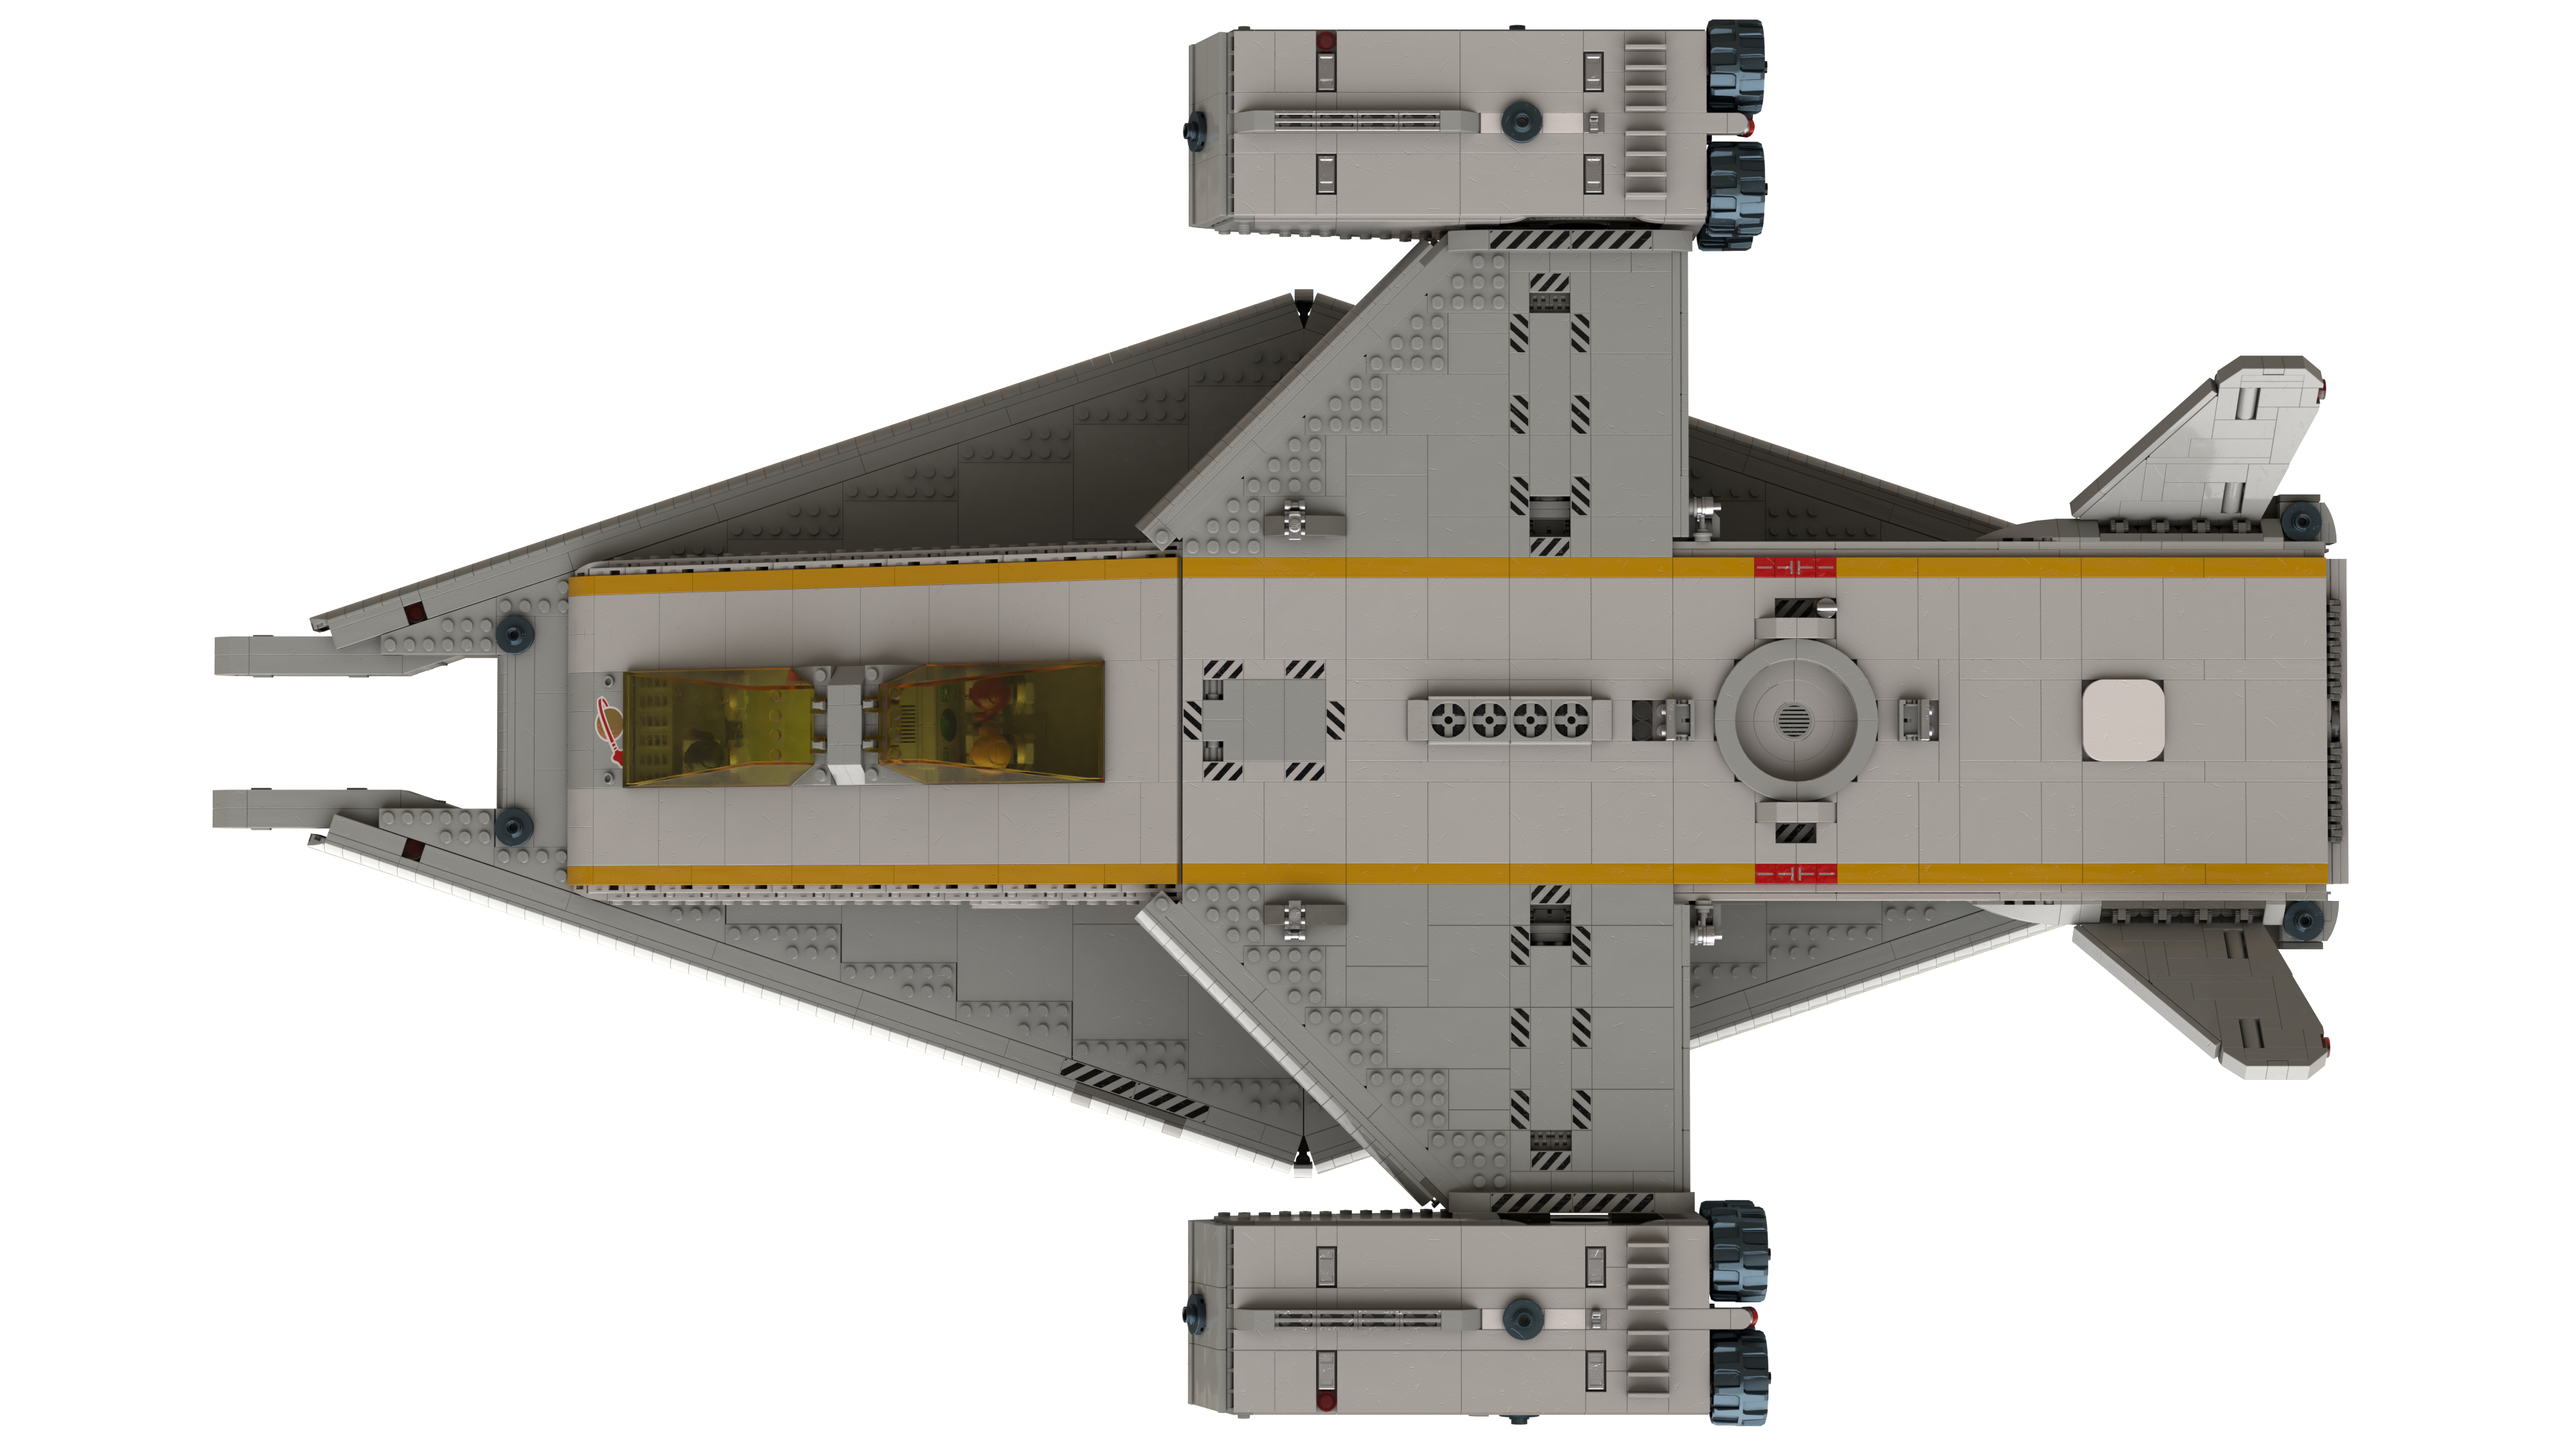
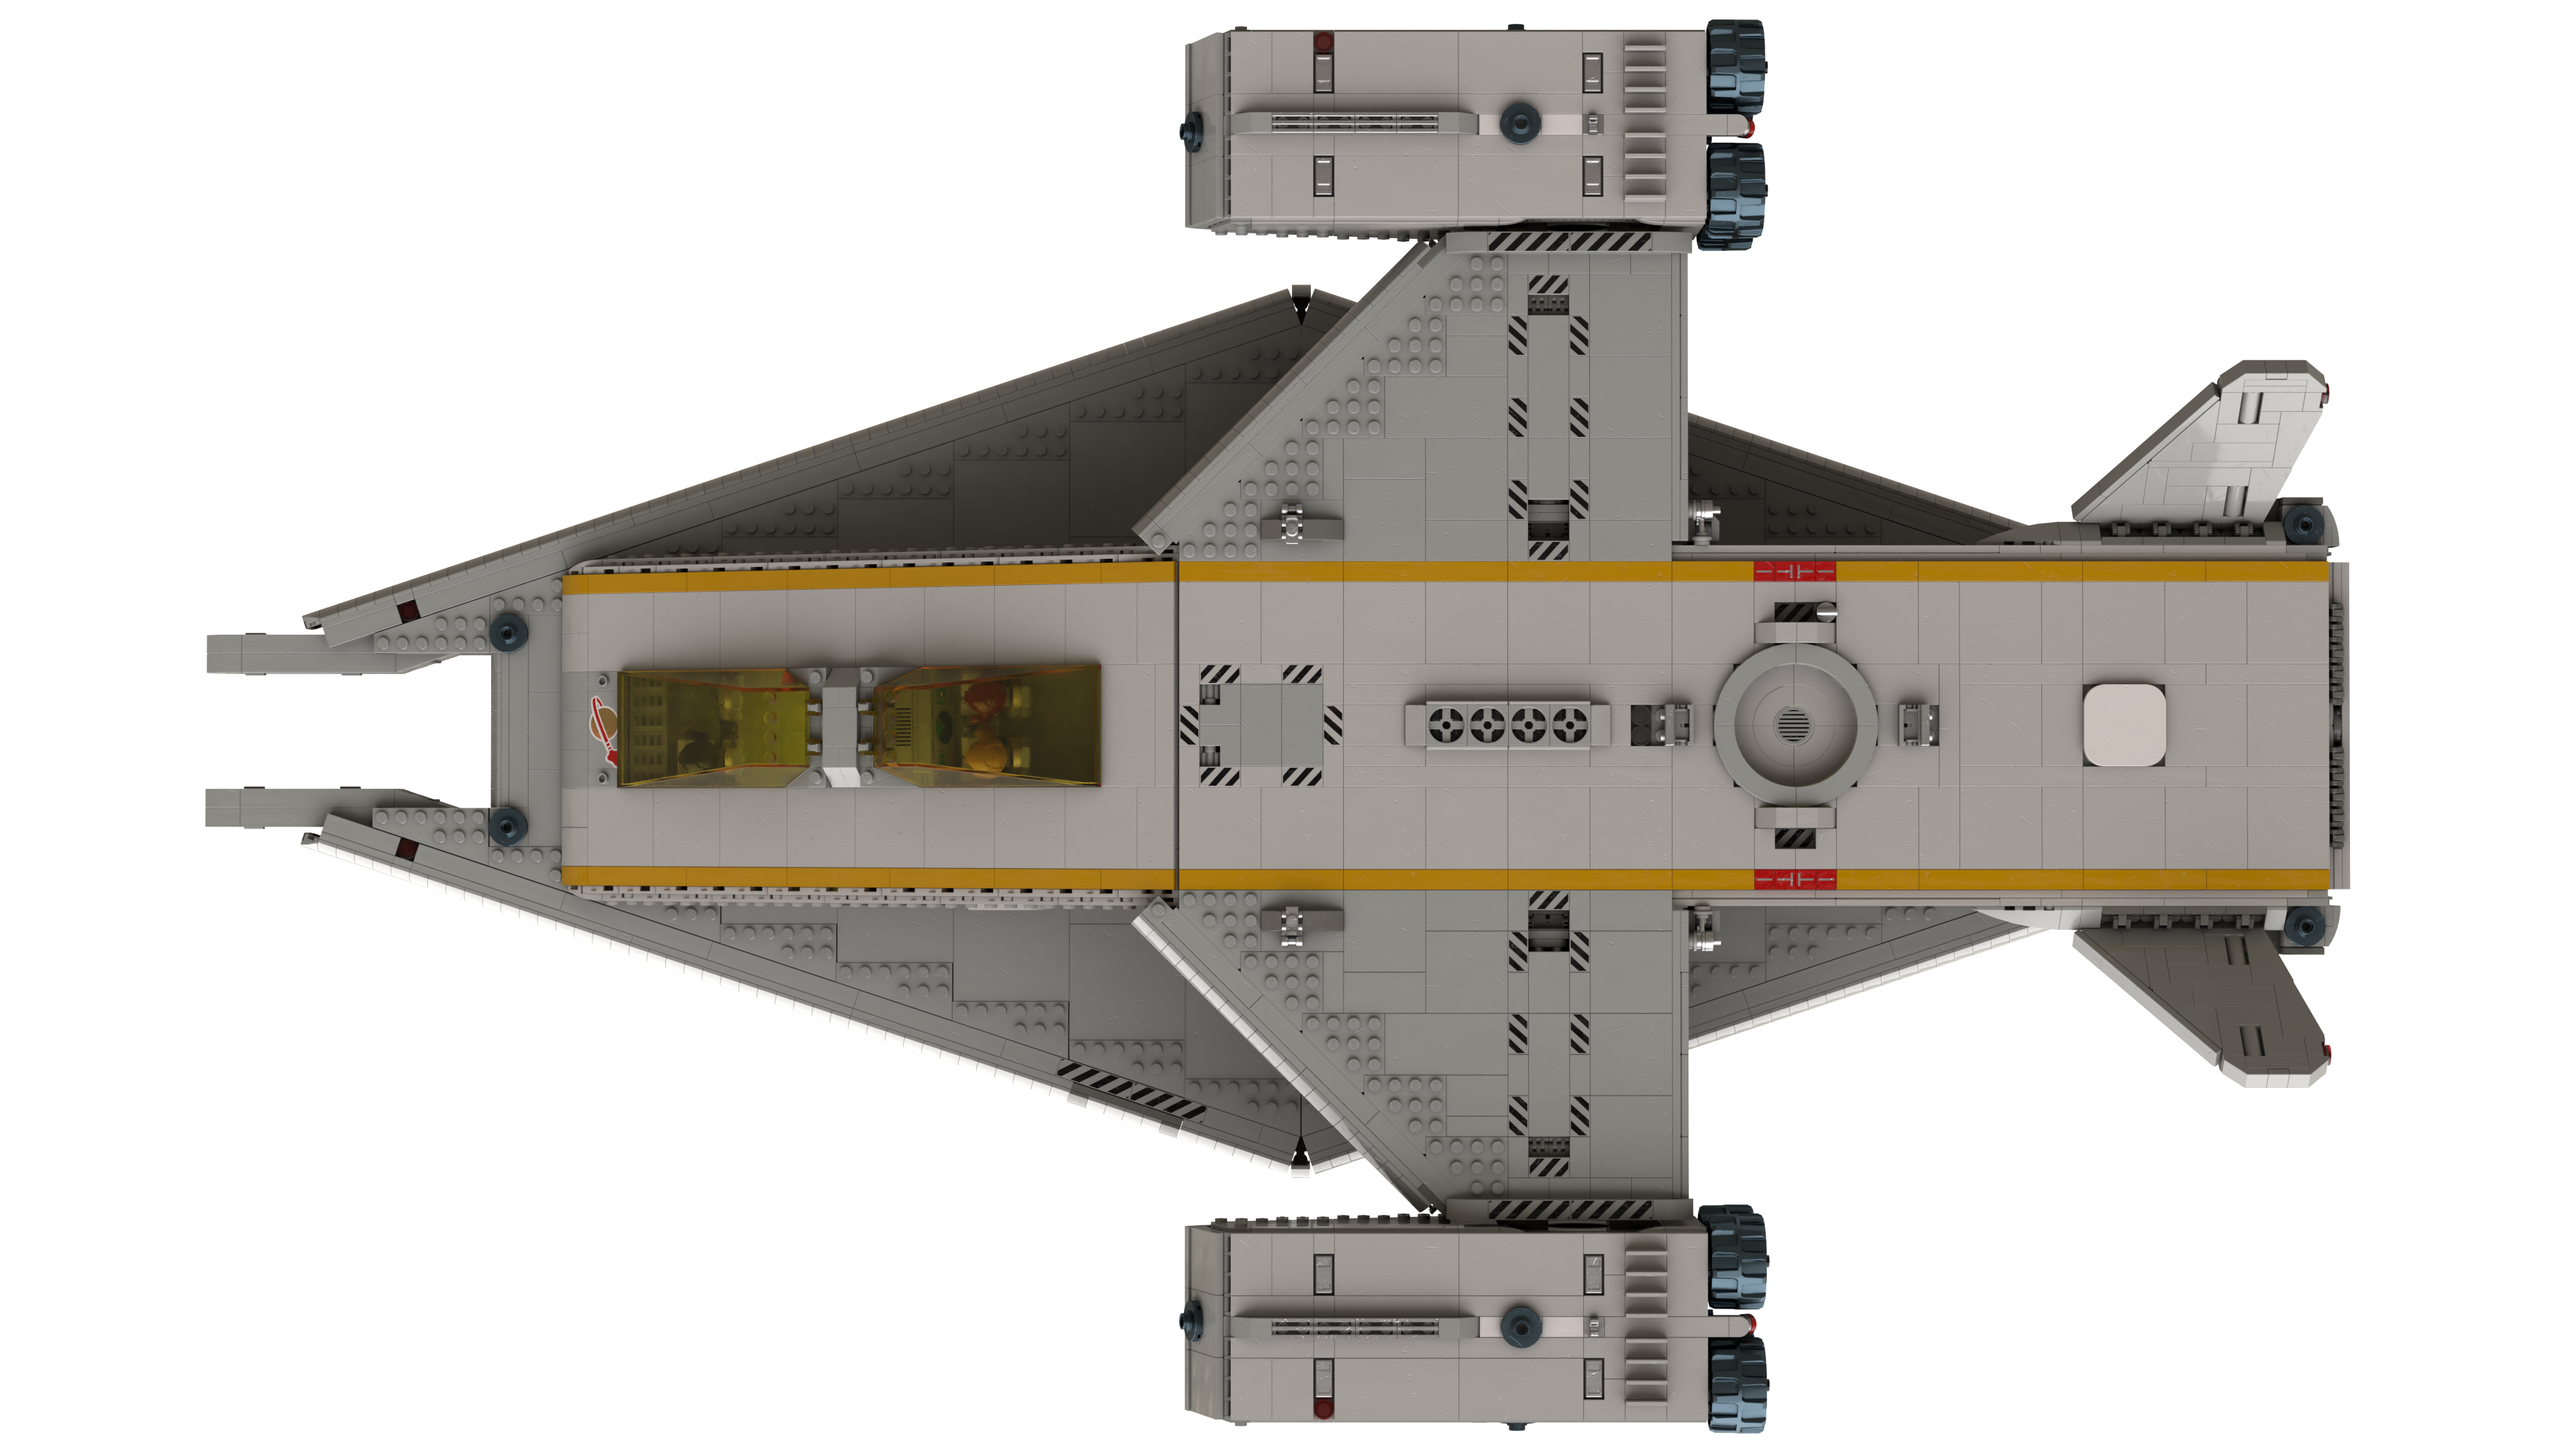
updated top / side / front views of space transporter

diff --git a/renders/space-transporter.md b/renders/space-transporter.md
@@ -8,11 +8,15 @@
 | Length | 108.2 studs | 37.7m |
 | Width | 69 studs | 24m |
 | Height | 27.6 studs (landing gear retracted) | 9.6m |
-| Height | 32.6 studs (landing gear extended) | 11.4m |
+| Height | 45 studs (landing gear extended, engines positioned for VTOL) | 15.7m |
 | Cargo Volume | 54 deep x 12 wide x 10 high studs ||
 
-\* metric dimensions based on [Dave's Lego Scale Converter](http://www.suave.net/~dave/cgi/scale.cgi)
+\* metric dimensions based on [Dave's Lego Scale Converter](http://www.suave.net/~dave/cgi/scale.cgi) and a scale of `1 : 43.54`
 
 ![](space-transporter-top.png)
+
+![](space-transporter-side.png)
+
+![](space-transporter-front.png)
 
 [prev](../README.md) [next](01-landing-pad.md)
